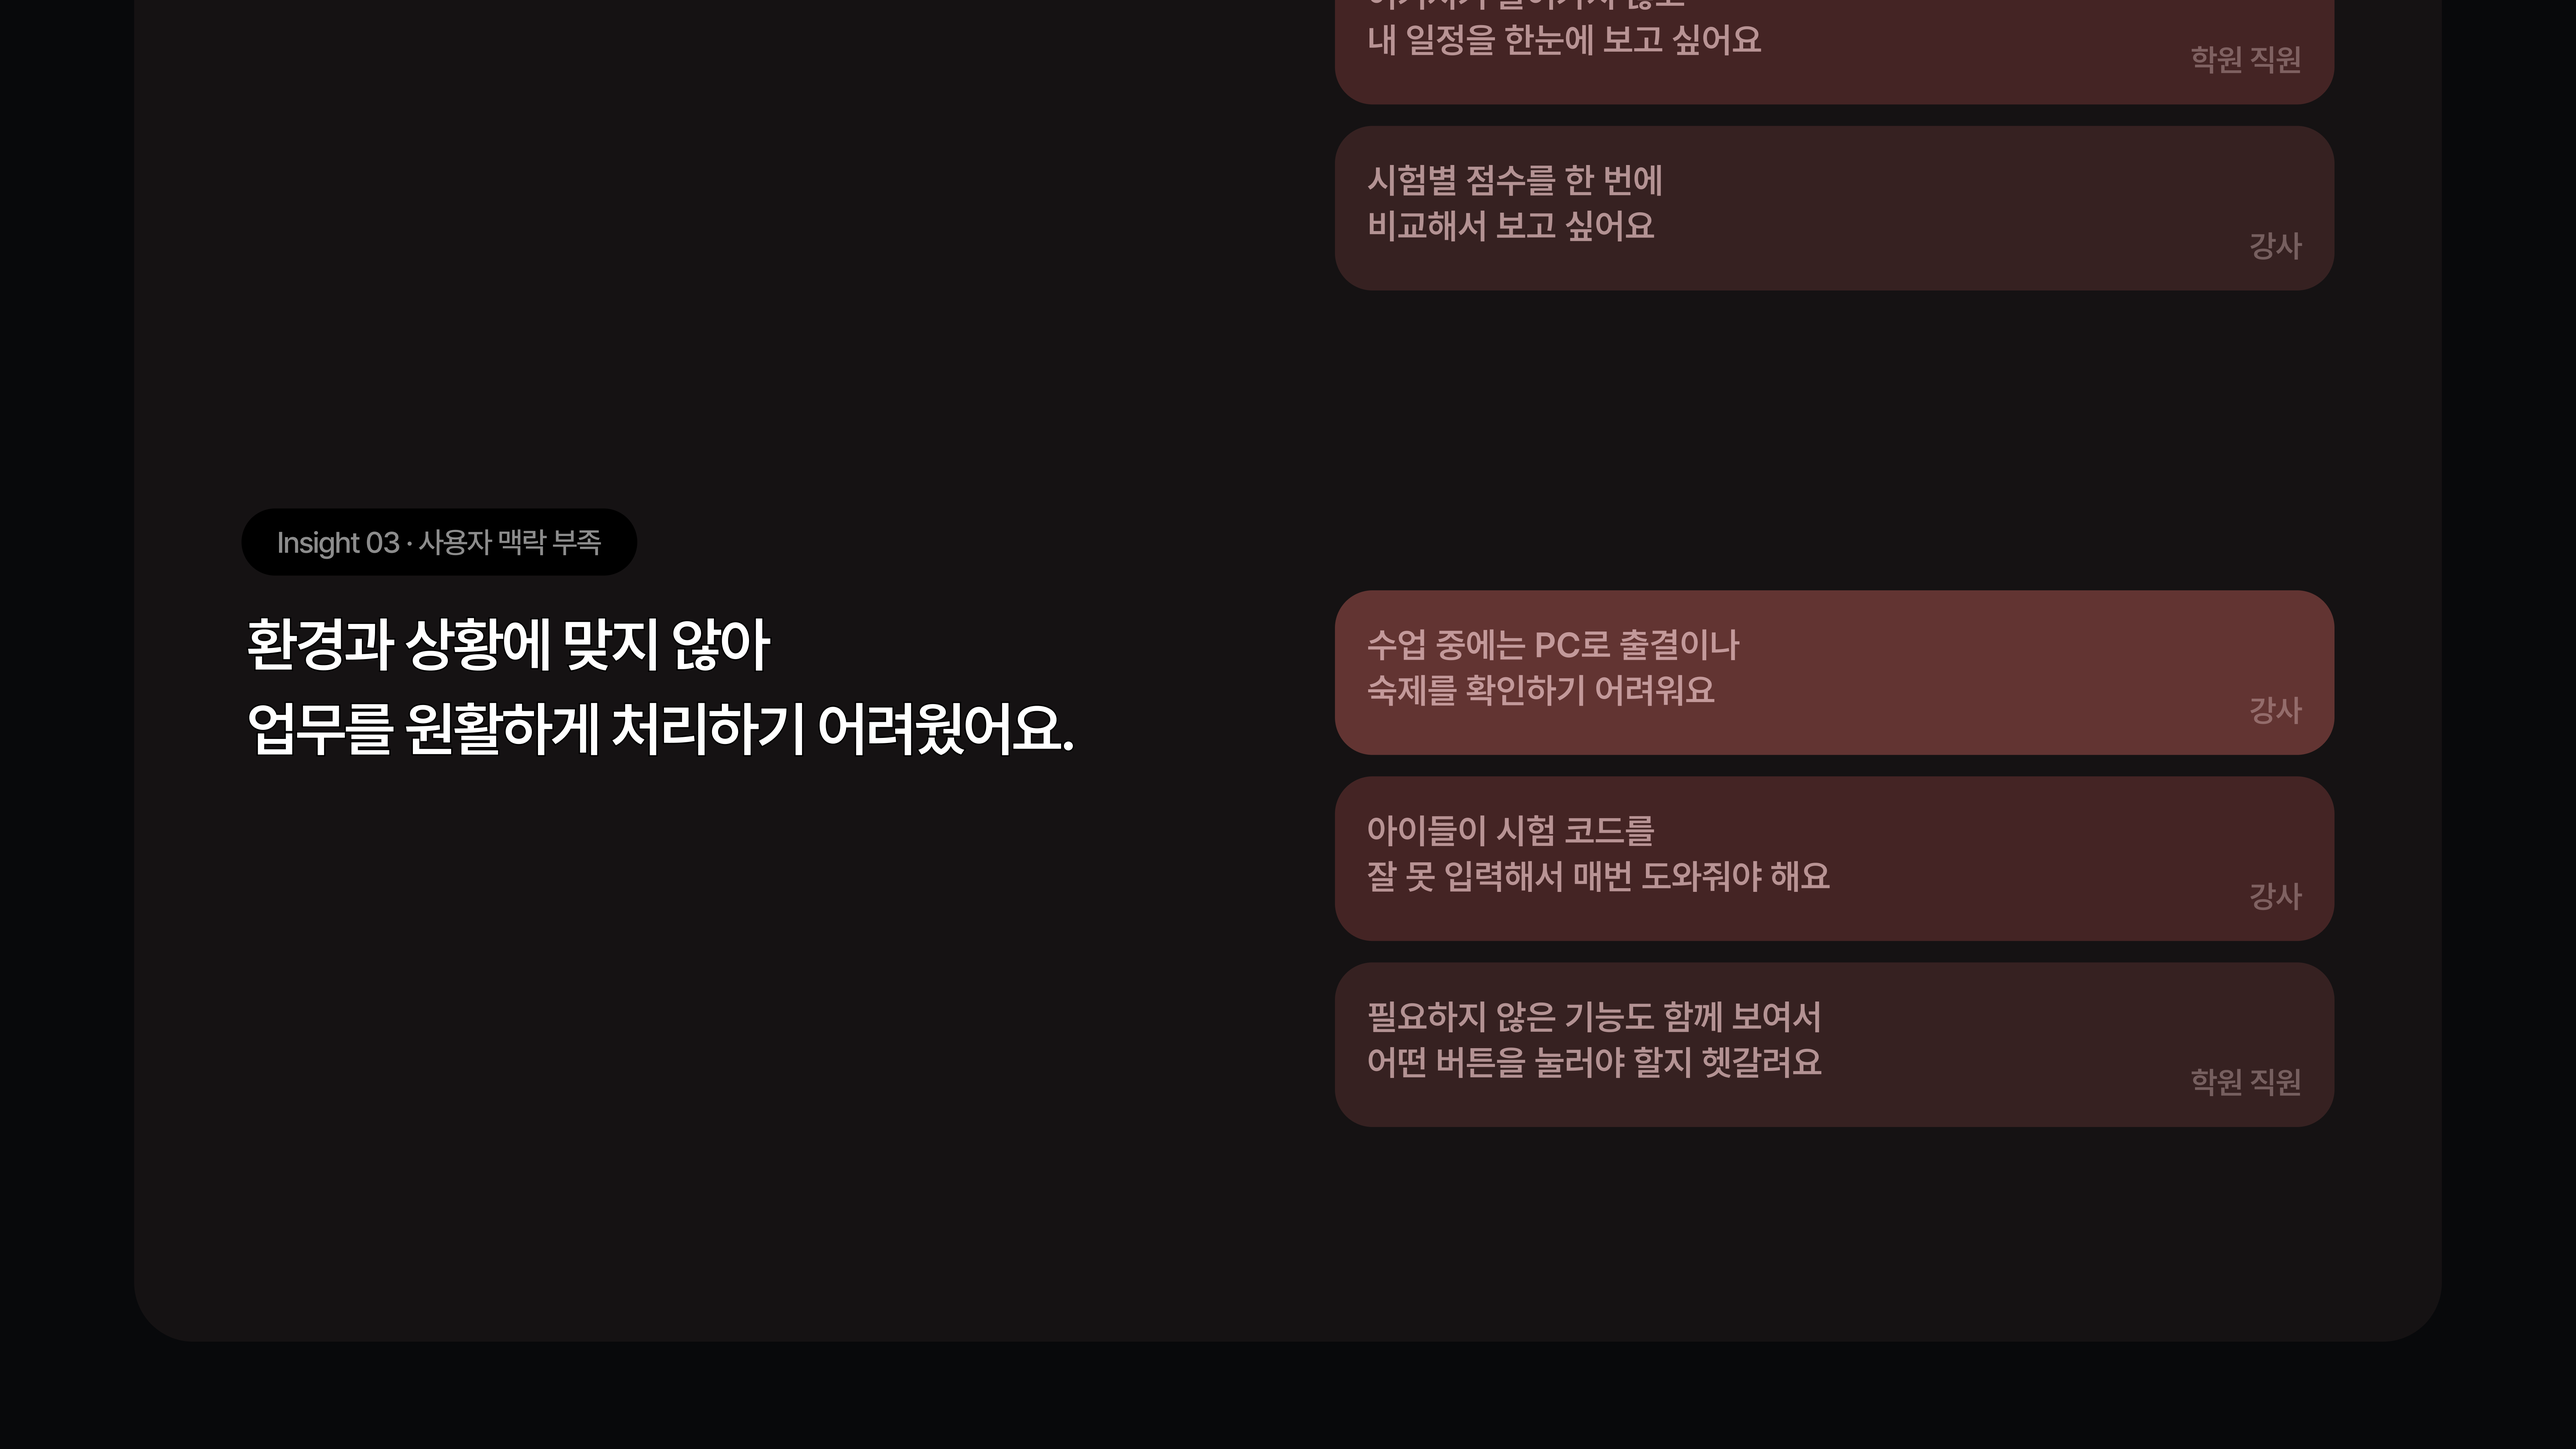
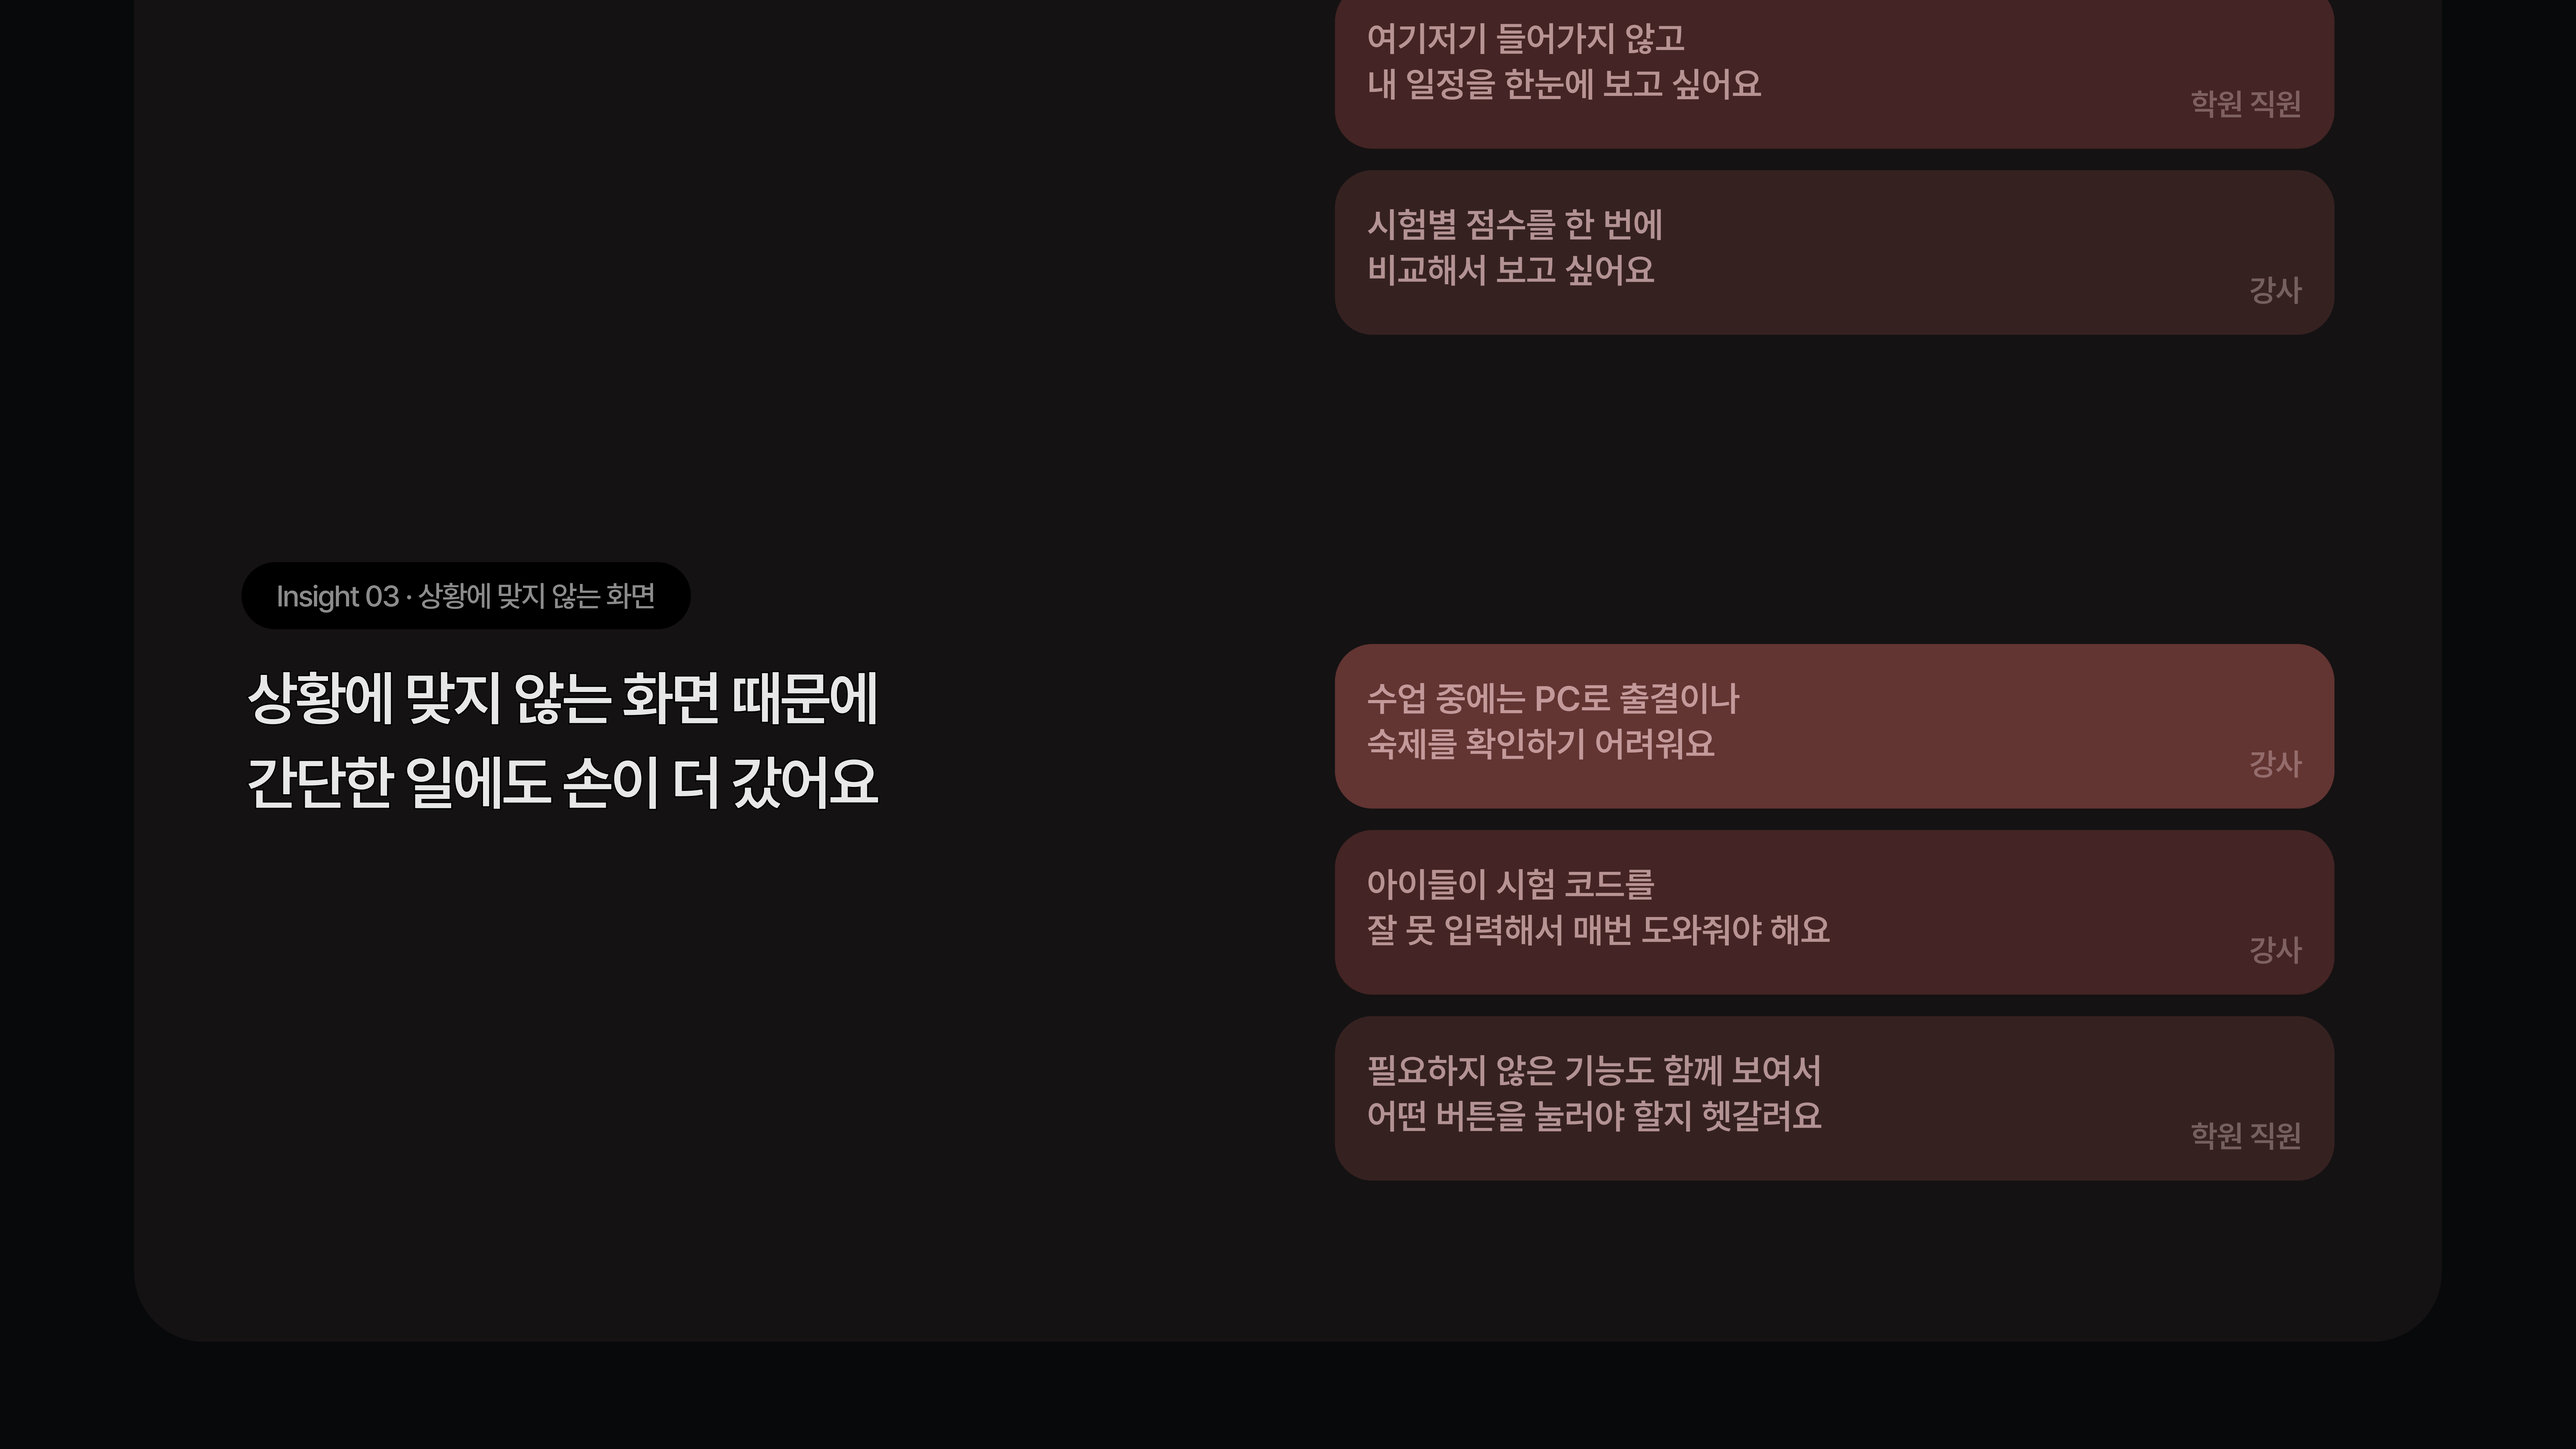
학원 ERP 04·05·07 슬라이드 재내보내기본 반영
- 04·05 Insight 문구 수정, 07 미세 조정 (7680x4320, 총 21장 그대로)
- 04/05 분할 지점이 카드 사이 여백으로 옮겨져 이음새가 깨끗하다.
- ASSET_VERSION 20261124c -> 20261124d

diff --git a/assets/js/main.js b/assets/js/main.js
@@ -70,7 +70,7 @@
      (CSS/JS 의 ?v= 와 같은 역할)
      경로 자체에는 붙이지 않는다 — 확장자 추출이나 존재 확인이 쿼리에
      오염되면 안 되므로, <img src> 에 실을 때만 versioned() 로 감싼다. */
-  var ASSET_VERSION = '20261124c';
+  var ASSET_VERSION = '20261124d';
   function slidePath(key, n, ext) { return 'assets/slides/' + key + '/' + pad(n) + '.' + ext; }
   function versioned(src) { return src + '?v=' + ASSET_VERSION; }
 

diff --git a/index.html b/index.html
@@ -169,6 +169,6 @@
   </div>
 </div>
 
-<script src="assets/js/main.js?v=20261124c"></script>
+<script src="assets/js/main.js?v=20261124d"></script>
 </body>
 </html>
